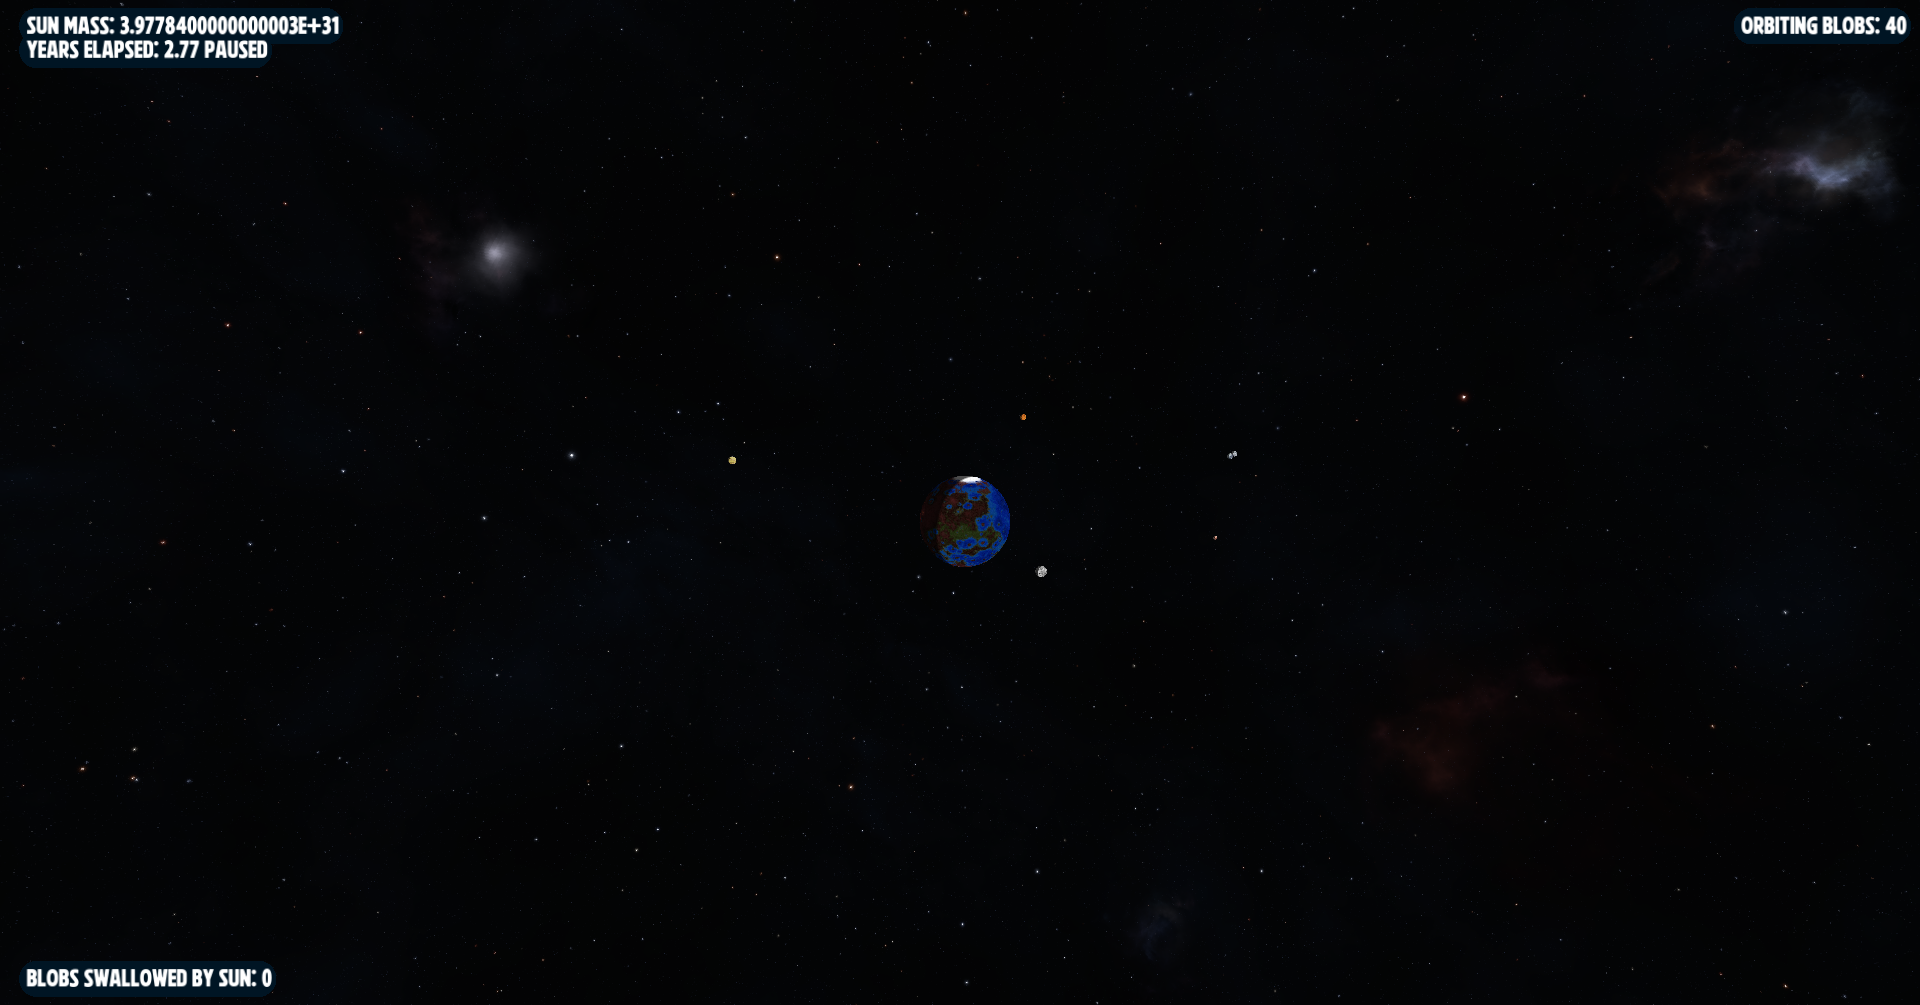
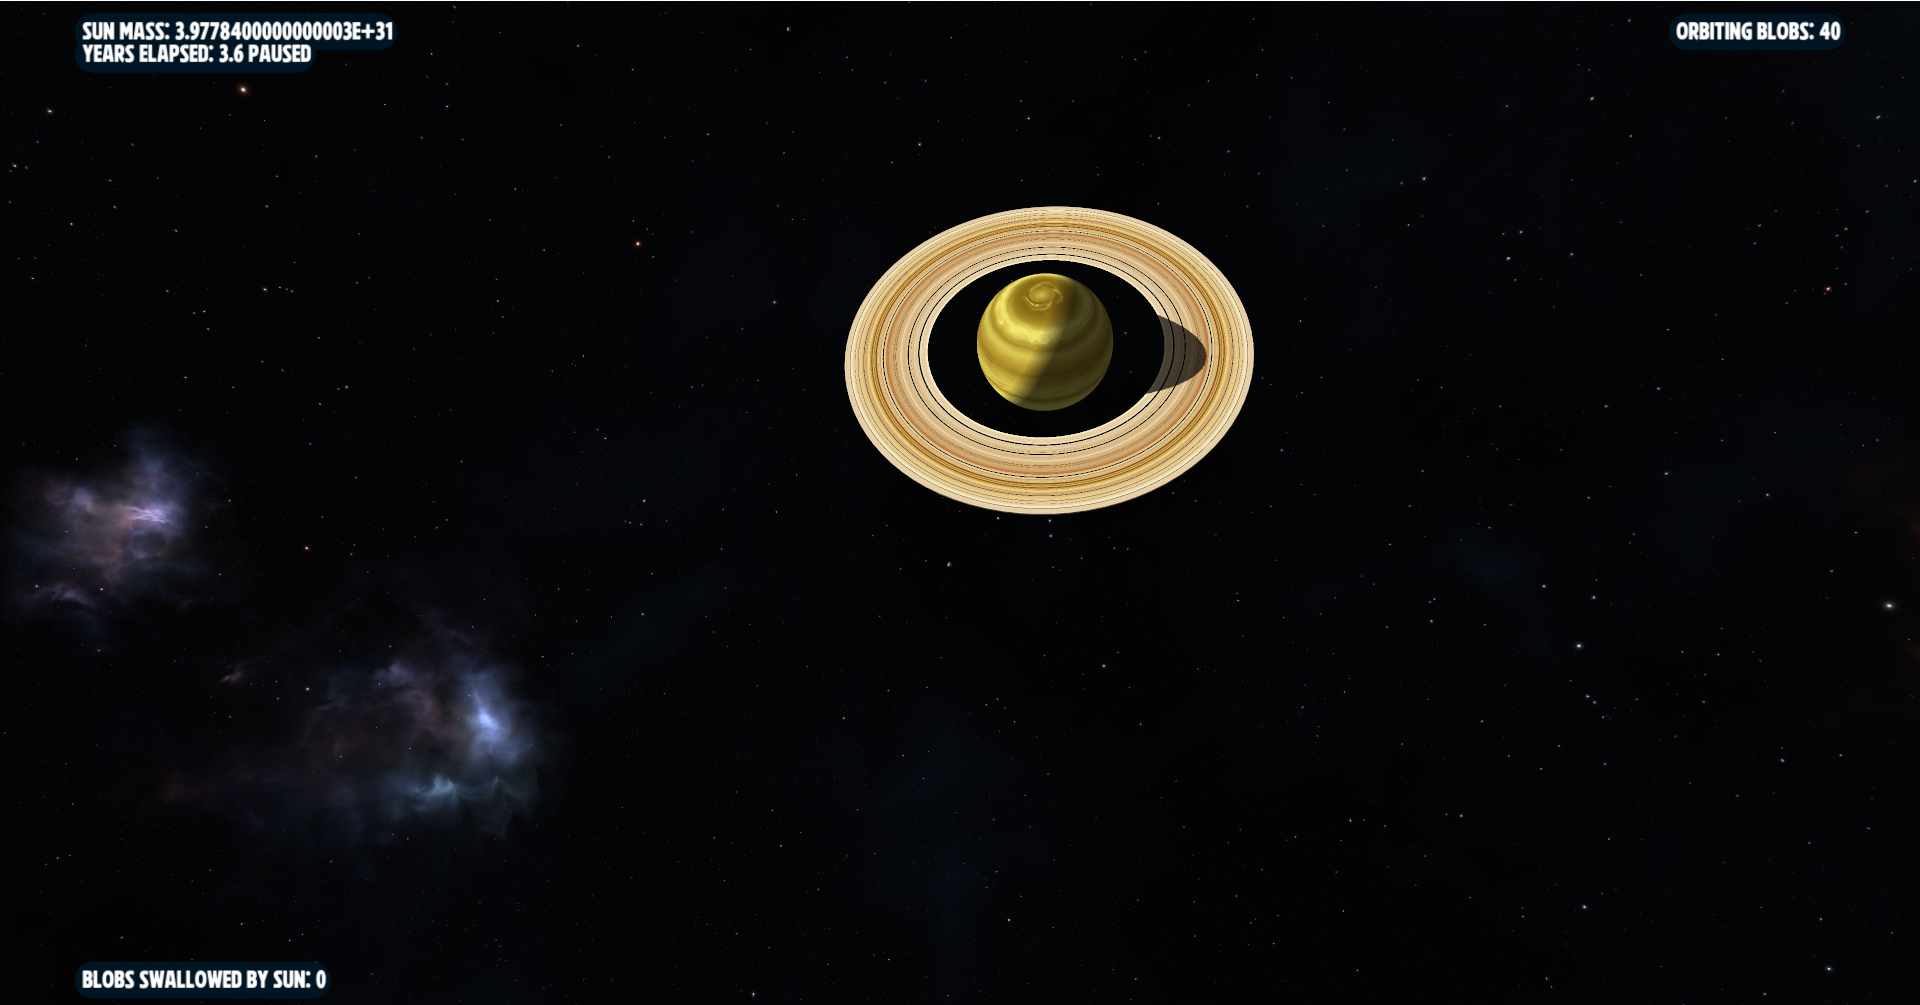
Updated README

diff --git a/README.md b/README.md
@@ -6,7 +6,7 @@ _A simulator of Newton's laws of physics: randomly generates solar systems_
 
 This is a small project just for me to learn and experiment. In spite of a life long interest in physics, I've never brought it to my programming skills. This is my playground for doing so. I am not a physicist though, so don't hold this to that standard! Feedback and/or help building this out is always welcome.
 
-Alpha release 0.0.7! It has full movement control -- you have forward, backward, up, down, right, left, as well as full 360 rotation with pitch, yaw, and roll! As blobs orbit, go anywhere you want to view them from any angle. Turn on orbit trails to better track blobs, enlarge blobs to a scaled up size to better find/track them. Pause and click on a blob to get its name, size, and position. Pause and click on a blob to change your inertial frame of reference to it when you unpause! Much more to come in the future!
+Alpha release 0.0.8! Now with planet rings! It has full movement control -- you have forward, backward, up, down, right, left, as well as full 360 rotation with pitch, yaw, and roll! As blobs orbit, go anywhere you want to view them from any angle. Turn on orbit trails to better track blobs, enlarge blobs to a scaled up size to better find/track them. Pause and click on a blob to get its name, size, and position. Pause and click on a blob to change your inertial frame of reference to it when you unpause! Much more to come in the future!
 
 To toggle auto save and load, just press the 3 key. To pause, press the spacebar. **Full instructions below.**
 
